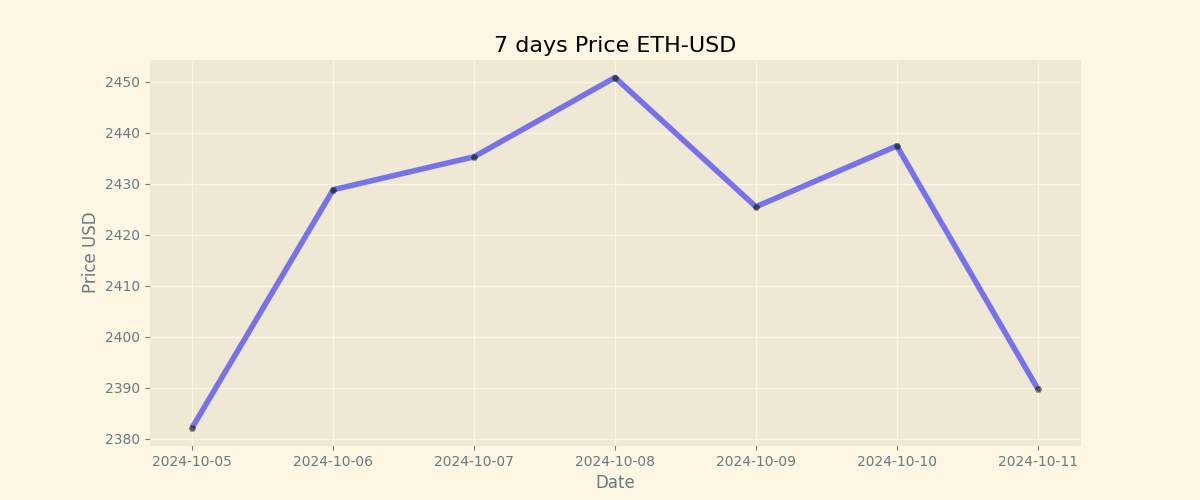
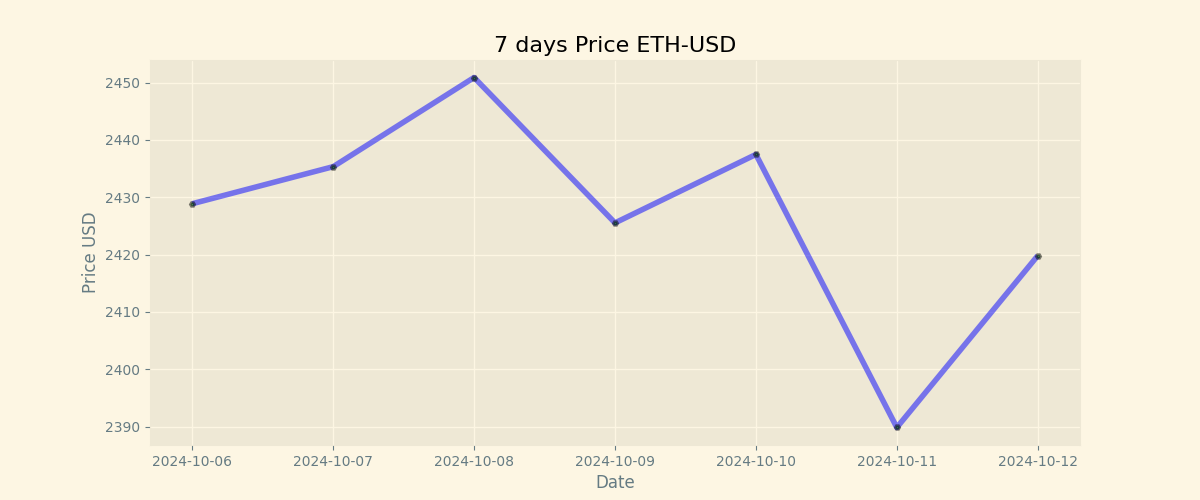
Duty Updates 2024-10-12

diff --git a/README.md b/README.md
@@ -9,8 +9,8 @@
 
 | Currency | Price           |
 | -------- | --------------- |
-| **BTC**  | **$ 60275.12** |
-| **ETH**  | **$ 2389.85** |
+| **BTC**  | **$ 60773.76** |
+| **ETH**  | **$ 2419.81** |
 
 ## BTC chart
 
